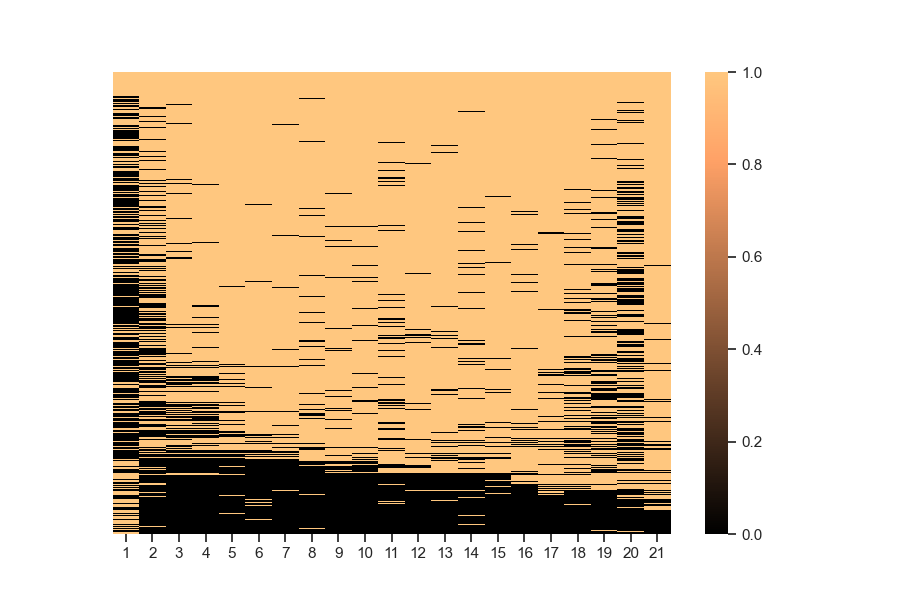
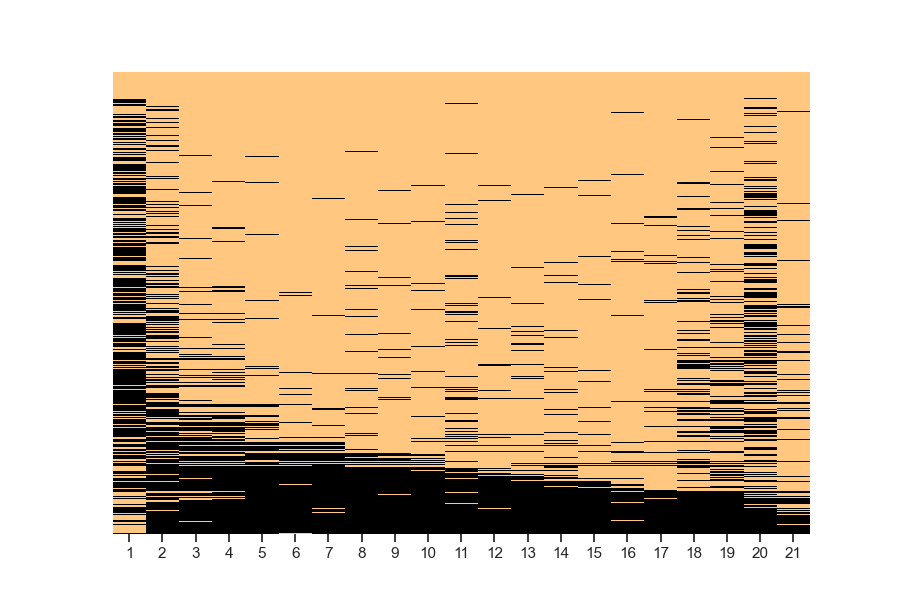
heatmap

diff --git a/utils/heatmap.py b/utils/heatmap.py
@@ -28,7 +28,7 @@ def heatmap(data, color, xrange):
         annot=False,
         xticklabels=np.arange(1,xrange+1,1),
         yticklabels=False,
-        cbar=True,
+        cbar=False,
         fmt="d",
         cmap=color,
         linewidths=0,
